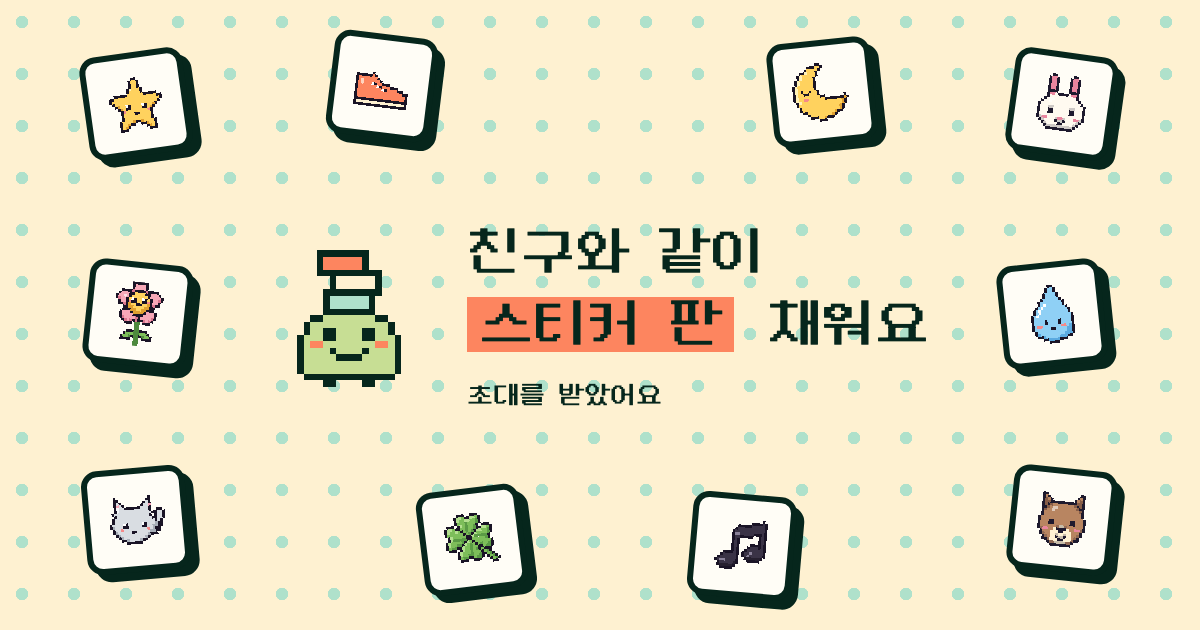
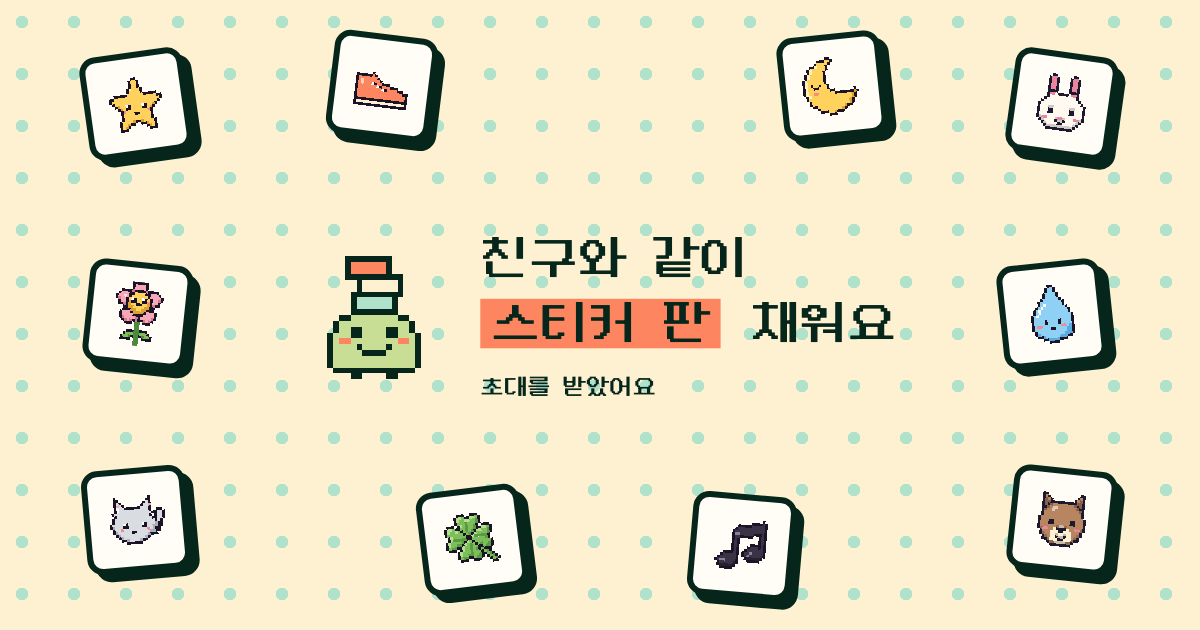
chagok: English invite link preview and fix the Korean preview tile spacing
- invite/en.html: English og title, description and image for links with ?lang=en
- assets/invite/og-en.png: English invite share image
- assets/invite/og.png: move tiles so the water drop no longer crowds the headline
- build-chagok-og.mjs: LANG_CODE=en, 80px gap measured per text line
- docs/chagok.md: how the English invite preview is served

Changed region(s): [[0.2467, 0.3619, 0.7708, 0.6635], [0.6167, 0.0302, 0.7708, 0.2413]]

diff --git a/chagok/invite/en.html b/chagok/invite/en.html
@@ -1,0 +1,79 @@
+<!doctype html>
+<html lang="en">
+<head>
+<meta charset="utf-8">
+<meta name="viewport" content="width=device-width, initial-scale=1, viewport-fit=cover">
+<title>Chagok invite</title>
+<!--
+  함께 목표 초대 페이지의 영어판. 주소에 ?lang=en 이 붙은 /invite/<코드> 를 서버(Caddy)가 이 파일로 보낸다(2026-11-12).
+  앱 1.1.1부터 앱 언어가 영어면 초대 링크에 ?lang=en 을 붙인다. 메신저 링크 미리보기(og)는 스크립트를 돌리지 않아 이 파일의 메타가 그대로 쓰인다.
+  본문은 index.html 과 같고, 영어 전환은 invite.js 가 ?lang=en 을 보고 한다. index.html 을 고치면 이 파일도 같이 고친다.
+  앱이 깔린 폰은 유니버설 링크로 앱이 바로 열리고, 이 페이지는 앱이 없거나 앱이 열리지 않을 때 보인다.
+  시안: 앱 저장소 docs/design/proposals-2026-10/invite-web-v2 (C안 5회차, 2026-11-06). 모양은 앱의 PixelPanel, PixelButton, PixelBadge, 차곡이와 같다.
+  목표 이름과 함께하는 사람은 assets/invite/invite.js 가 운영 서버 초대 미리보기(preview_invite)에서 받아 넣는다.
+-->
+<meta name="robots" content="noindex">
+<meta name="description" content="Fill a sticker board together. Open the link and tap [Open in Chagok].">
+<meta property="og:type" content="website">
+<meta property="og:site_name" content="Chagok">
+<meta property="og:title" content="A friend invited you to Chagok">
+<meta property="og:description" content="Fill a sticker board together. Open the link and tap [Open in Chagok].">
+<meta property="og:image" content="https://chagok.novum-lab.com/assets/invite/og-en.png?v=20261112">
+<meta property="og:image:width" content="1200">
+<meta property="og:image:height" content="630">
+<meta property="og:url" content="https://chagok.novum-lab.com/invite/">
+<meta property="og:locale" content="en_US">
+<meta name="twitter:card" content="summary_large_image">
+<meta name="apple-itunes-app" content="app-id=6824725721">
+<link rel="icon" href="/assets/img/icon.png">
+<link rel="stylesheet" href="/assets/invite/invite.css">
+<!-- 주소에 코드가 있으면 서버 답이 올 때까지 내용을 감춘다(기본 안내가 잠깐 보였다 바뀌지 않게). invite.js 가 답을 받거나 4초가 지나면 푼다. 스크립트가 없으면 감추지 않는다 -->
+<script>if (/\/invite\/[^/]+\/?$/.test(location.pathname)) document.documentElement.className += ' invite-wait';</script>
+</head>
+<body>
+<header class="brand"><img src="/assets/img/icon.png" alt="" width="28" height="28"><span data-en="Chagok">차곡차곡</span></header>
+<main id="main" aria-live="polite">
+  <!-- 같이 쌓기: 미리보기를 받기 전과 받지 못했을 때도 이 모양(목표 이름과 사람 줄만 빠진다) -->
+  <section id="join" class="stack">
+    <div class="hero">
+      <img class="mascot mascot-lg" src="/assets/invite/mascot-b3.svg" alt="" width="128" height="128">
+      <h1 class="title" id="join-title" data-en="A friend wants to&lt;br&gt;stack stickers with you">친구가 같이<br>차곡차곡 쌓자고 해요</h1>
+      <p class="people" id="join-people" hidden><span class="stickers" id="join-stickers"></span><span class="caption" id="join-people-text"></span></p>
+    </div>
+    <div class="px-panel">
+      <ol class="steps">
+        <li><span class="px-badge">1</span><span data-en="Get the Chagok app">차곡차곡 앱을 받아요</span></li>
+        <li><span class="px-badge">2</span><span data-en="Tap this invite link again to open it in Chagok">이 초대 링크를 다시 눌러 차곡차곡에서 열어요</span></li>
+      </ol>
+    </div>
+    <a class="px-button" id="open-app" href="chagok://" data-en="Open in Chagok">차곡차곡에서 열기</a>
+    <div class="download">
+      <p class="caption" data-en="No app yet? Get it here">앱이 없다면 여기서 받아 주세요</p>
+      <a id="store-ko" href="https://apps.apple.com/kr/app/id6824725721"><img class="badge" src="/assets/img/app-store-badge-ko.svg" alt="App Store에서 다운로드" width="143" height="44"></a>
+      <!-- 영어 화면: 영어 배지 파일이 없어 글자 버튼으로 스토어를 연다. 나라 없는 주소라 각 나라 스토어로 열린다 -->
+      <a class="px-button secondary" id="store-en" href="https://apps.apple.com/app/id6824725721" hidden>Get Chagok on the App Store</a>
+      <!-- 초대 링크를 열지 못하는 옛 앱을 쓰는 사람에게 업데이트를 안내한다 -->
+      <p class="caption center" data-en="If the app doesn't open or says the page can't be found, update Chagok from the App Store.">앱이 열리지 않거나 페이지를 찾을 수 없다고 나오면 App Store에서 차곡차곡을 업데이트해 주세요.</p>
+    </div>
+  </section>
+
+  <!-- 들어갈 수 없을 때, 자리가 다 찼을 때, 잠시 막혔을 때: 차곡이가 패널 위에 걸터앉은 카드 -->
+  <section id="problem" class="stack" hidden>
+    <div class="card">
+      <img class="mascot mascot-sm" id="problem-mascot" src="/assets/invite/mascot-curious.svg" alt="" width="96" height="96">
+      <div class="px-panel card-panel">
+        <h1 class="title center" id="problem-title"></h1>
+        <p class="caption center" id="problem-detail"></p>
+        <a class="px-button secondary" href="/" data-en="About Chagok">차곡차곡 알아보기</a>
+      </div>
+    </div>
+  </section>
+</main>
+<!-- 서버 답이 늦을 때: 차곡이가 머리 위에 블록을 하나씩 쌓으며 가져온다 (invite.js 가 0.6초 뒤에 띄운다) -->
+<div class="loading" id="loading" role="status" hidden>
+  <img class="mascot mascot-lg" id="loading-mascot" src="/assets/invite/mascot-b3.svg" alt="" width="128" height="128">
+  <p class="caption" data-en="Getting your invite">초대를 가져오고 있어요</p>
+</div>
+<script src="/assets/invite/invite.js" defer></script>
+</body>
+</html>

diff --git a/chagok/invite/index.html b/chagok/invite/index.html
@@ -16,7 +16,7 @@
 <meta property="og:site_name" content="차곡차곡">
 <meta property="og:title" content="친구가 차곡차곡에 초대했어요">
 <meta property="og:description" content="같이 스티커 판을 채워요. 링크를 열고 [차곡차곡에서 열기]를 눌러 주세요.">
-<meta property="og:image" content="https://chagok.novum-lab.com/assets/invite/og.png">
+<meta property="og:image" content="https://chagok.novum-lab.com/assets/invite/og.png?v=20261112">
 <meta property="og:image:width" content="1200">
 <meta property="og:image:height" content="630">
 <meta property="og:url" content="https://chagok.novum-lab.com/invite/">

diff --git a/docs/chagok.md b/docs/chagok.md
@@ -40,6 +40,8 @@
 - 서버가 돌려주는 `closed`, `full`, `rate_limited`(없는 코드를 한 곳에서 1시간 30번, 앱 저장소 `supabase/migrations/20261106000001~3`)마다 차곡이 카드를 보여 준다.
 - 차곡이 그림과 스티커는 앱 저장소에서 만든다: `node deploy/build-chagok-invite-assets.mjs <chagok-app 경로>`.
 - 초대 링크 미리보기 그림(`assets/invite/og.png`, 1200×630)은 `node deploy/build-chagok-og.mjs`로 만든다(맥 Chrome 헤드리스). 카카오톡이 양옆을 잘라서 스티커 타일은 글과 차곡이에서 40px, 양옆 끝에서 60px 넘게 떨어뜨리고, 스크립트가 이 간격을 재서 어기면 멈춘다.
+- **영어 초대(2026-11-12):** 앱 1.1.1부터 앱 언어가 영어면 초대 링크에 `?lang=en`을 붙인다. Caddy가 `lang=en`인 `/invite/*`를 `invite/en.html`로 보낸다(링크 미리보기 og 메타가 영어). 그림은 `LANG_CODE=en node deploy/build-chagok-og.mjs`로 만든 `assets/invite/og-en.png`. 본문은 `index.html`과 같으니 한쪽을 고치면 다른 쪽도 고친다. og 그림 주소의 `?v=`는 카카오톡 캐시를 넘기려고 그림을 바꿀 때마다 올린다.
+- **미리보기 그림 간격(2026-11-12):** 카카오톡은 카드를 2:1로 크게 채우며 양옆을 100px 안팎 자른다. 40px 간격에서는 오른쪽 물방울 타일이 「채워요」에 붙어 보였다. 지금 검사는 글 줄마다 80px, 글과 차곡이 묶음은 한국어 0.9배, 영어 0.85배다.
 - **서버(Caddy) 설정은 끝났다(2026-11-06, 운영 서버):** `/invite/*`를 `/invite/index.html`로 보내고, `/.well-known/apple-app-site-association`을 `Content-Type: application/json`으로 낸다. 이 설정이 빠지면 `/invite/<코드>`가 404다.
 
 ## 개정하는 방법
